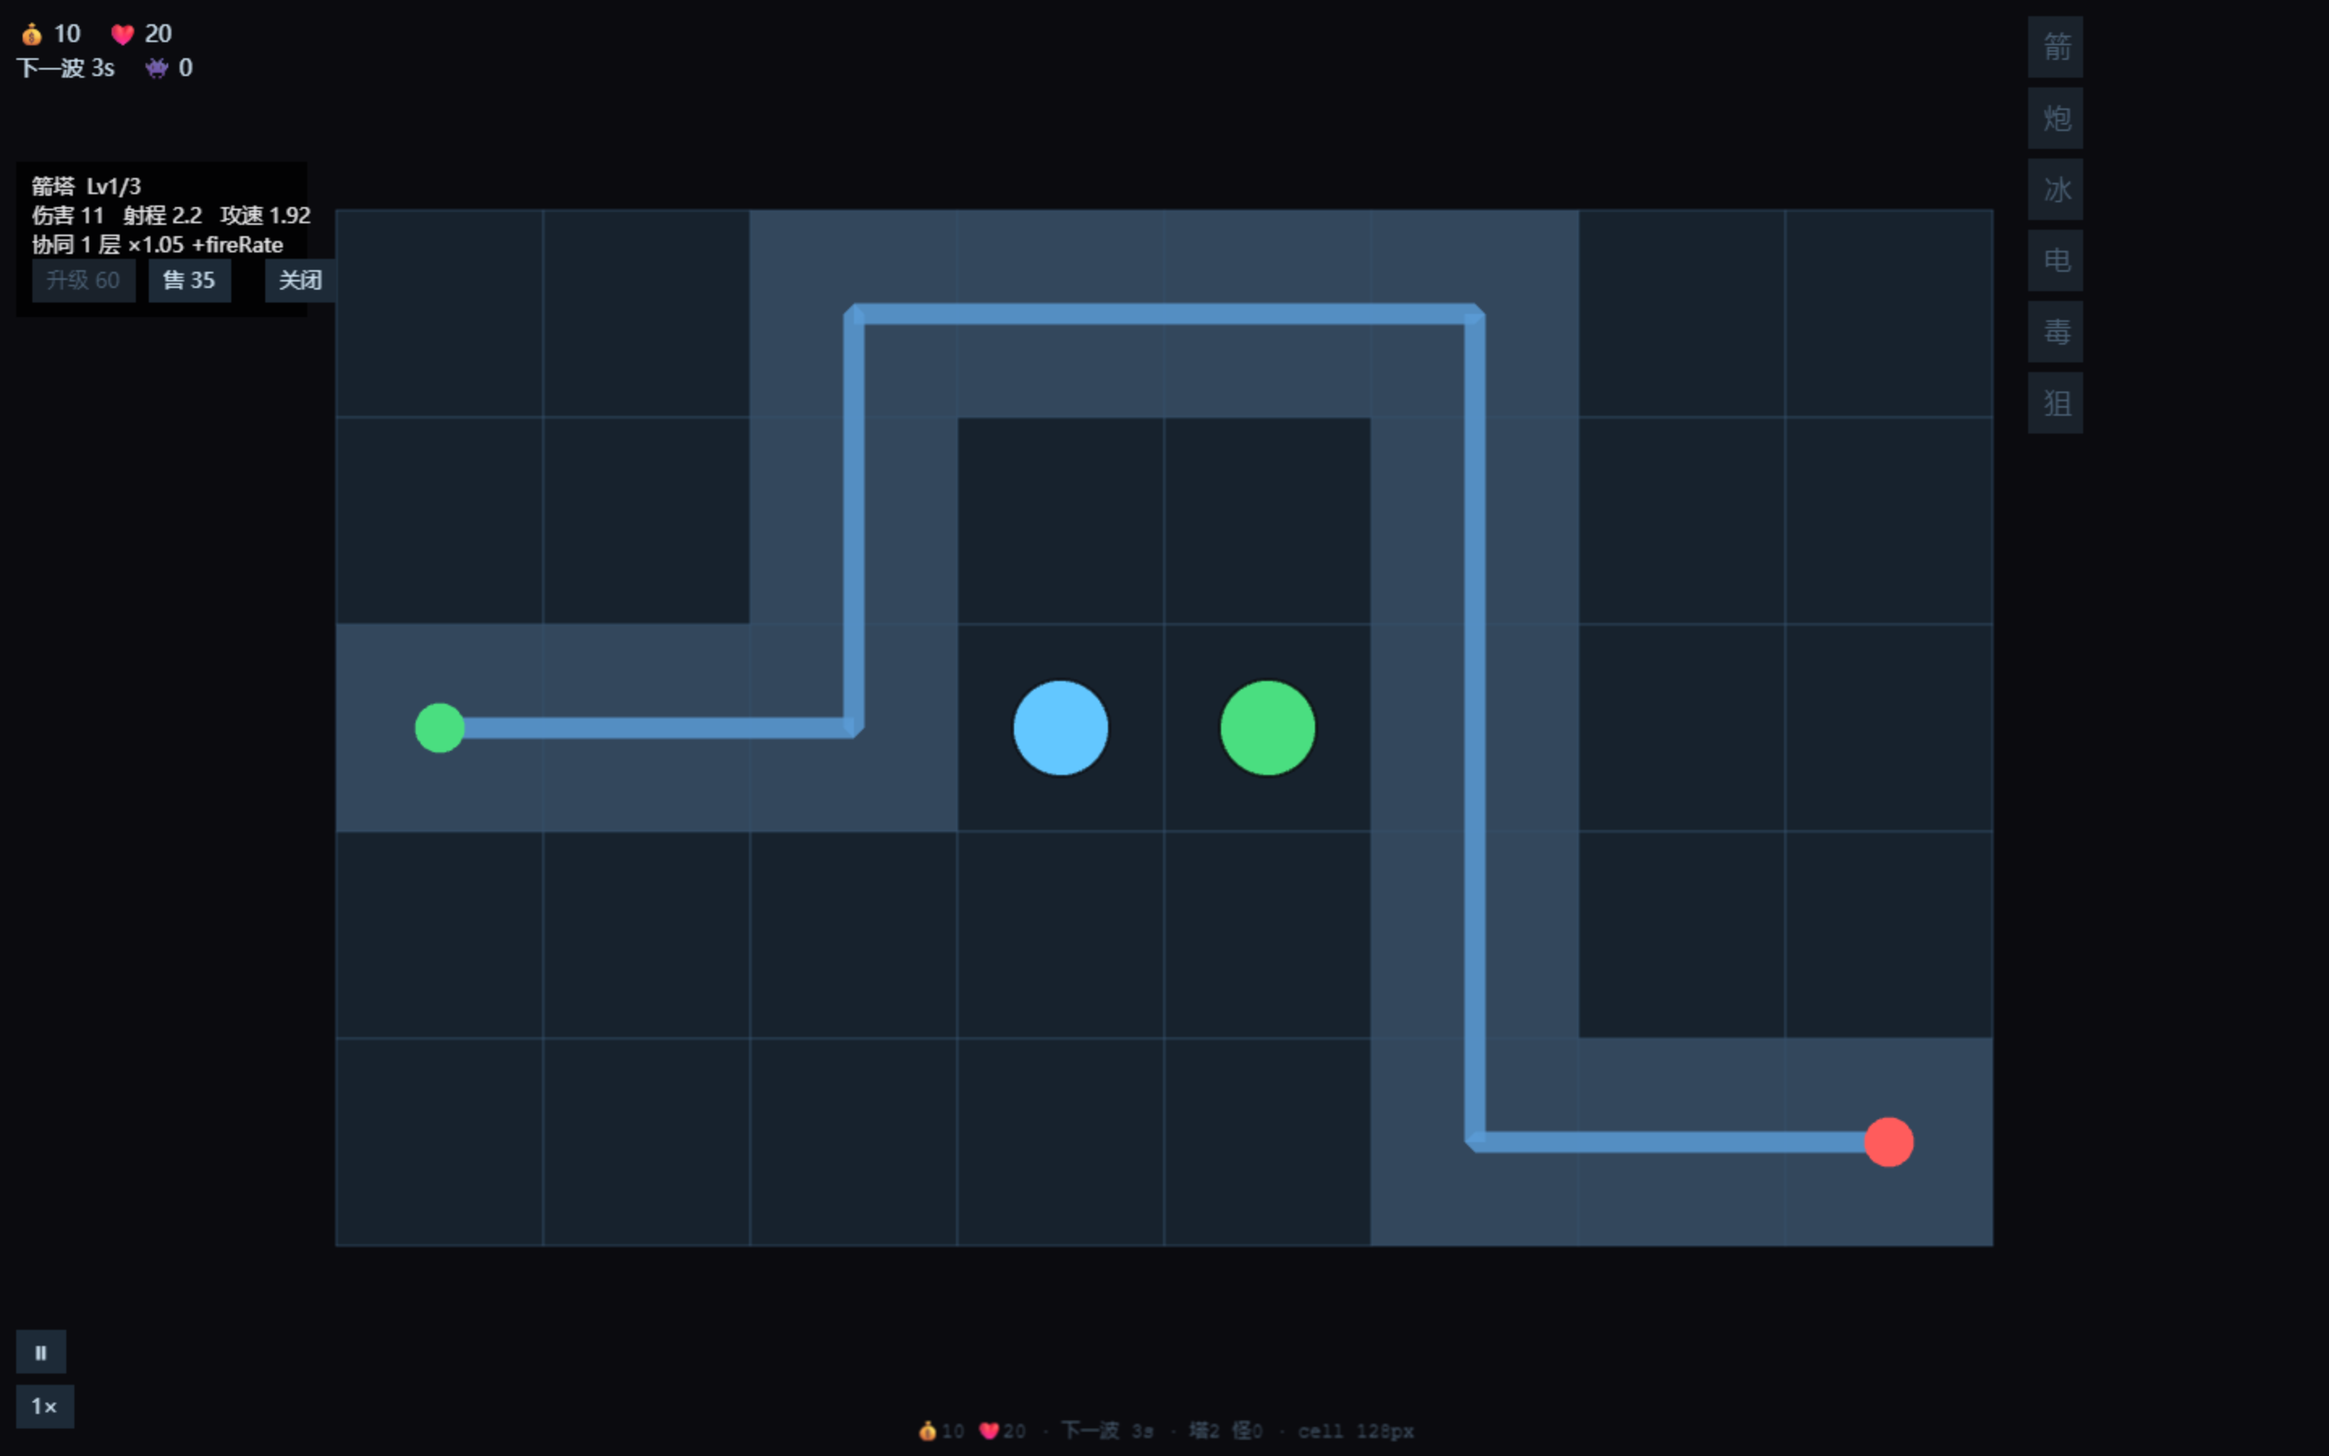
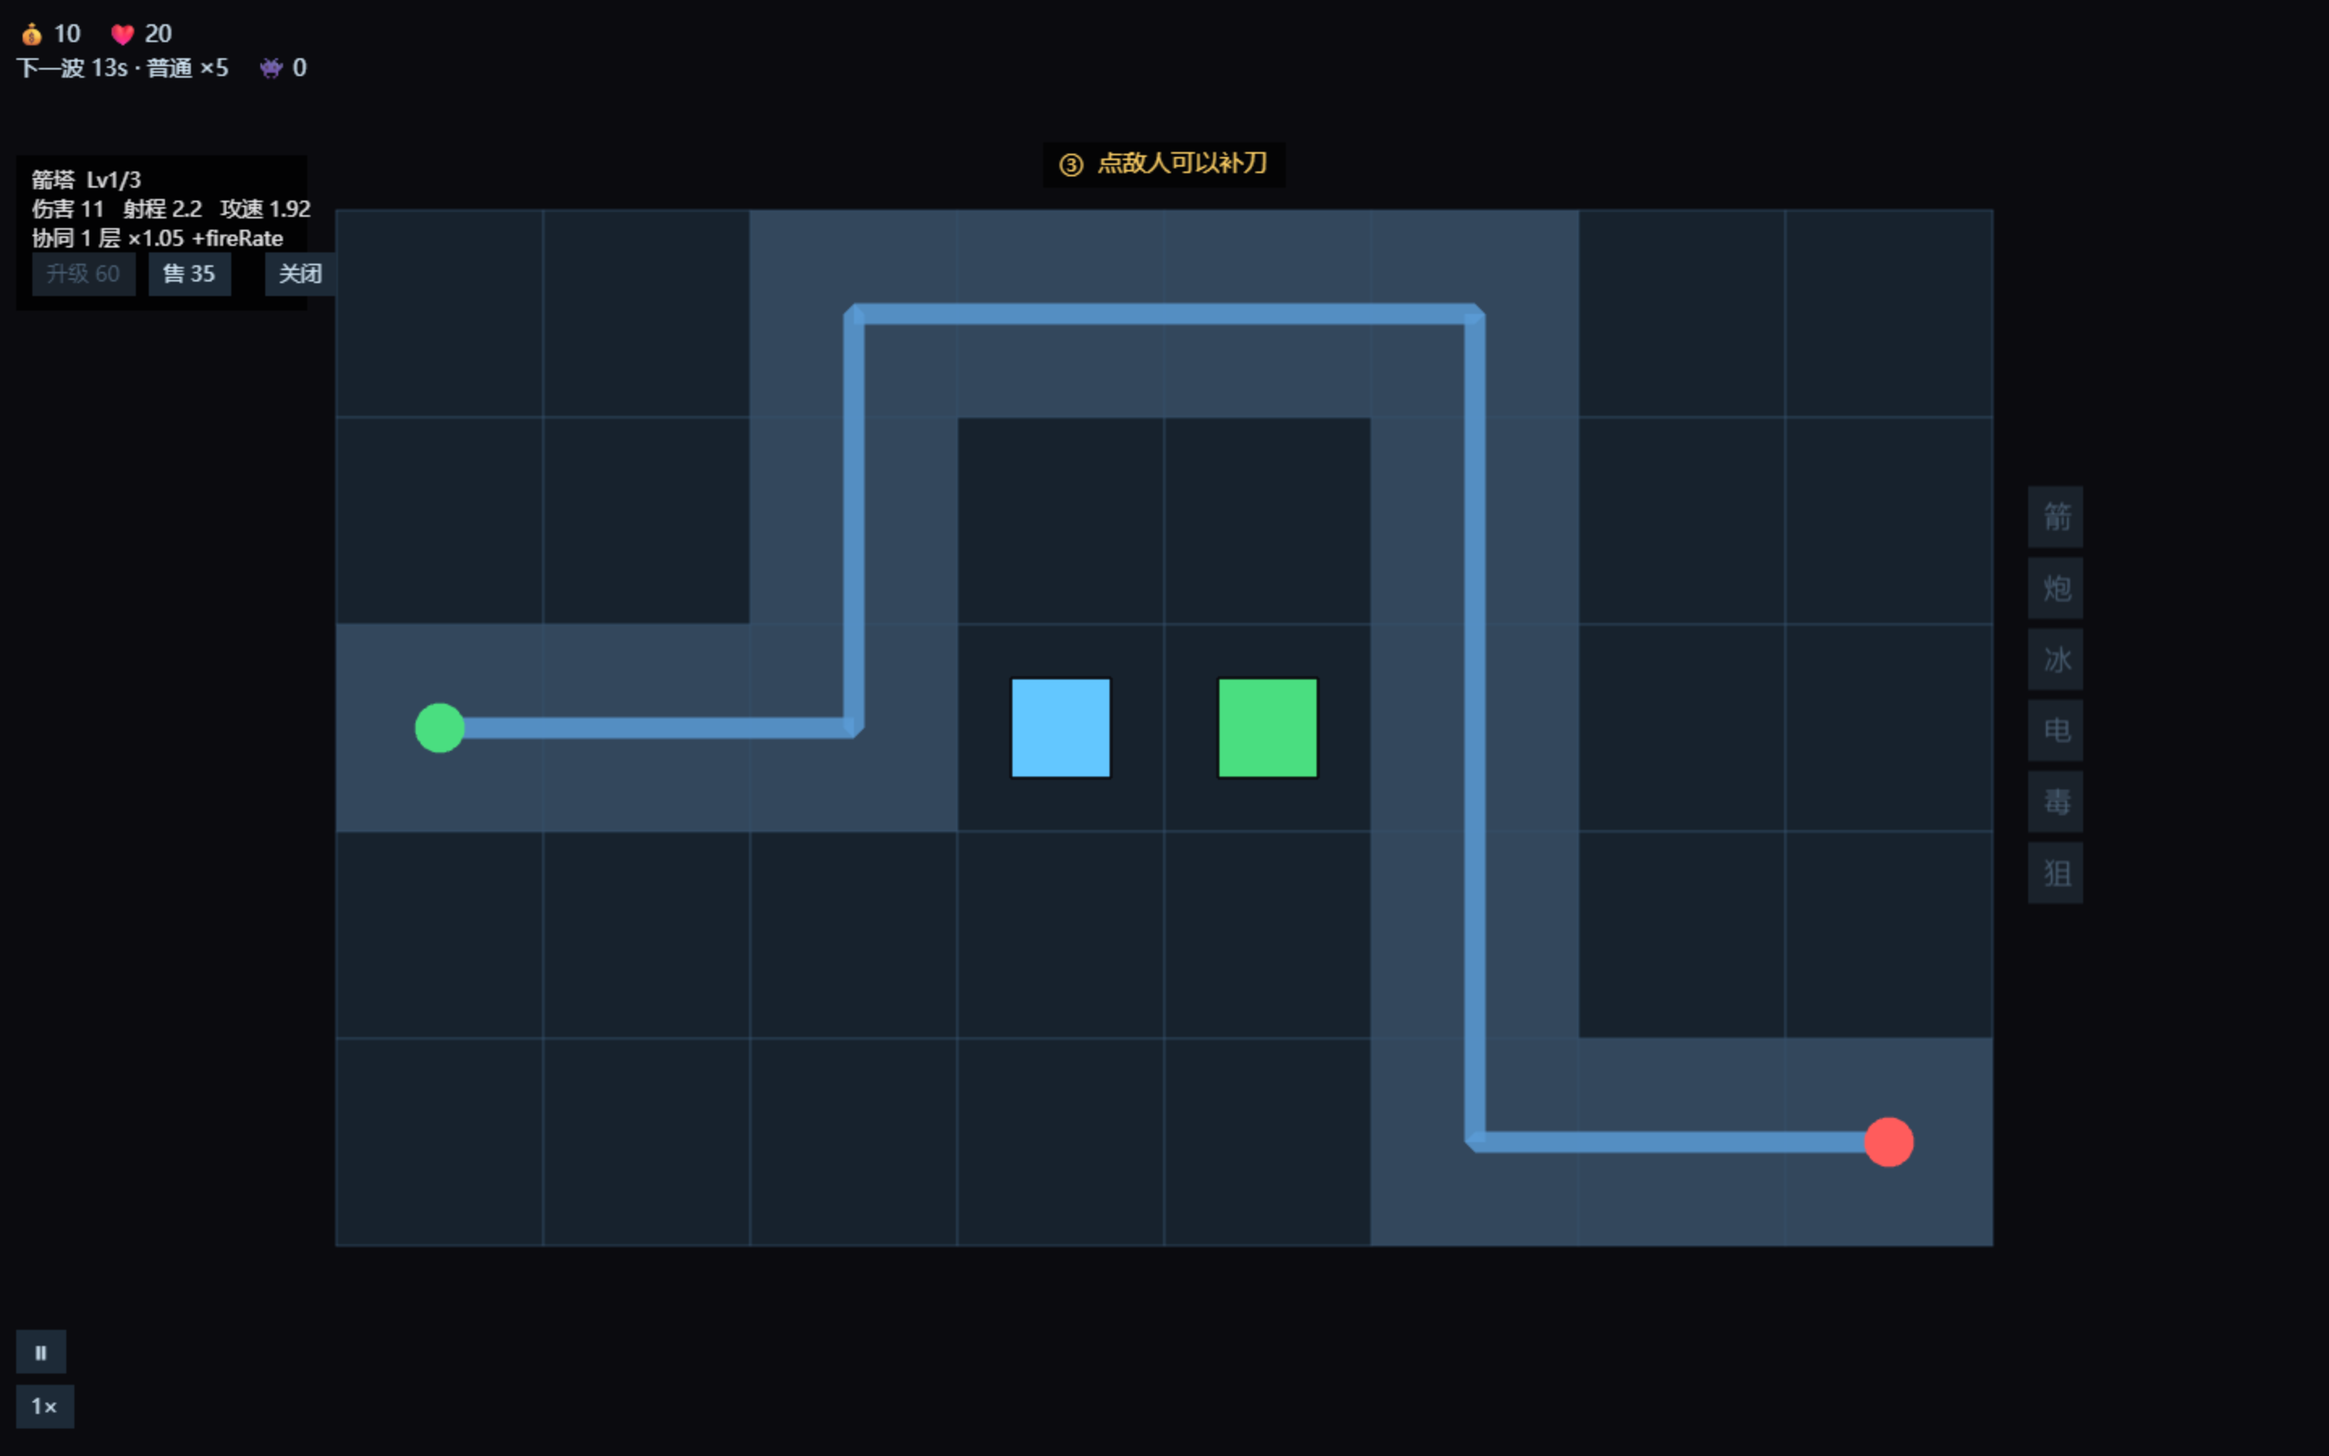
看图发现并修复 5 处视觉/布局缺陷（测试全绿但玩家会踩）
测试全绿 ≠ 玩家能用。这一轮靠看图找出 5 个功能断言抓不到的问题：

1. 【严重】信息面板压住建造栏
   竖屏面板写死 py = H - 200，底部压住了建造栏上排的「箭/炮/冰」三个按钮
   —— 玩家根本点不到。所有测试照样全绿，因为它们用程序坐标点按钮，
   程序算的是按钮理论位置，不知道有东西盖在上面。
   修：面板改放地图正下方，并与「建造栏上沿」取较小值（320 小屏也不重叠）。

2. 塔和敌人都是纯色圆点 → 分不清哪个是塔
   而且毒塔的紫色与坦克敌人的紫色直接撞车。
   修：塔改 Phaser Rectangle（方形 + 等级越大方块越大），敌人保持圆形。
       形状差异不需要图例就能分辨。

3. 【功能缺失】敌人没有血条
   spec 5.2 的「点击补刀」是对敌人造成 2% 最大 HP —— 没有血条玩家无从判断点哪只。
   修：每个敌人加「底 + 前景」两个矩形血条，随对象池复用不额外 new/destroy，
       按血量分级变色（绿/黄/红），只在 hp 变化时写入属性。

4. 底部挂着一条与 HUD 完全重复的调试提示条
   显示的金币/生命/波次与顶部一模一样，只多个 cell 尺寸。
   修：只在 ?debug=1 时显示（验收要读 cell 时仍可用）。

5. 引导提示飘在地图上方几百像素的空白处
   写死 scale.height * 0.12，与它要教的地图脱节。
   修：改成贴地图上沿 28px（看图才发现）。

另：横屏建造栏原从固定 y=10 往下排，1440x900 下挤在顶部 268px 内、下方 70% 全空。
    改成整个栏垂直居中。

新增 tests/visual-flow.mjs（41 项）：把上述 5 类问题变成可回归的断言 ——
几何重叠、形状混淆、信息缺失这三类，功能断言一个都抓不到。

回归：352 项断言全绿 + 6 视口 0 错误

diff --git a/src/scenes/HudScene.js b/src/scenes/HudScene.js
@@ -167,12 +167,18 @@ export default class HudScene extends Phaser.Scene {
       this.speedBtn.setPosition(10, H - 44)
 
       // 右浮层：建造栏竖排 + 取消
+      // ⚠ 整个栏**垂直居中**，不要从固定的 y=10 开始往下排 ——
+      //    那样在大屏上（1440×900）建造栏会挤在顶部 268px 内、下方 70% 全空。
+      //    实测数据：812×375 尚可，1440×900 明显头重脚轻。
       const btnH = Math.max(30, Math.min(44, (H - 60) / 7))
       const bx = W - side + 14
+      const blockH = 6 * btnH + 8 + this.cancelBtn.height
+      const startY = Math.max(8, (H - blockH) / 2)
+
       this.buildButtons.forEach((b, i) => {
-        b.text.setPosition(bx, 10 + i * btnH)
+        b.text.setPosition(bx, startY + i * btnH)
       })
-      this.cancelBtn.setPosition(bx, 10 + 6 * btnH + 8)
+      this.cancelBtn.setPosition(bx, startY + 6 * btnH + 8)
 
       this.layoutPanel(W, H, landscape, side)
     } else {
@@ -182,17 +188,19 @@ export default class HudScene extends Phaser.Scene {
       this.pauseBtn.setPosition(W - 74, 10)
       this.speedBtn.setPosition(W - 42, 10)
 
-      // 底部建造栏 3×2
+      // 底部建造栏 3×2 —— 从屏幕底边往上排（不是从固定 baseY 往下摆），
+      // 这样无论在 320×568 的小屏还是 430×932 的大屏，栏都稳稳贴住底边。
       const cols = 3
       const bw = Math.min(64, (W - 32) / cols)
       const bh = 40
-      const baseY = H - 128
+      const gap = 6
+      const baseY = H - 12 - (2 * bh + gap)          // 两行 + 行间距 + 底边距
       this.buildButtons.forEach((b, i) => {
         const cx = i % cols
         const cy = Math.floor(i / cols)
-        b.text.setPosition(12 + cx * (bw + 6), baseY + cy * (bh + 6))
+        b.text.setPosition(12 + cx * (bw + gap), baseY + cy * (bh + gap))
       })
-      this.cancelBtn.setPosition(12 + 2 * (bw + 6) + bw + 6, baseY + bh + 6)
+      this.cancelBtn.setPosition(12 + 2 * (bw + gap) + bw + gap, baseY + bh + gap)
 
       this.layoutPanel(W, H, landscape, 0)
     }
@@ -201,9 +209,38 @@ export default class HudScene extends Phaser.Scene {
   }
 
   layoutPanel(W, H, landscape, side) {
-    const pw = landscape ? side - 20 : Math.min(W - 24, 300)
-    const px = landscape ? 10 : (W - pw) / 2
-    const py = landscape ? 100 : H - 200
+    const gs = this.gs
+    const L = gs && gs.L
+
+    let pw, px, py
+
+    if (landscape) {
+      // 横屏：左侧浮层（地图水平居中，两侧本就是留白）
+      pw = Math.max(150, side - 20)
+      px = 10
+      py = 96
+    } else {
+      // 竖屏：面板放在**地图正下方**。
+      // 地图是 8×5（宽高比 1.6）而手机竖屏是 0.46 —— 地图下方**必然**留出大片空白，
+      // 面板正好填在那里，既利用空间又不与任何控件冲突。
+      //
+      // ⚠ 曾经写死 `py = H - 200`，结果面板底部压住了底部建造栏的**上排三个塔按钮**
+      //    （箭/炮/冰），玩家根本点不到它们。
+      //    所有自动化测试依然全绿 —— 因为它们用程序坐标点按钮，
+      //    程序算的是按钮的理论位置，根本不知道有东西盖在上面。**看图才发现。**
+      //
+      // ⚠ 但在 320×568 这类小屏上，地图下方只剩约 100px，放不下 96px 的面板 + 间距，
+      //    仍会压到建造栏（visual-flow 抓到过：面板 y347–443 vs 栏 y440–524）。
+      //    所以这里取「地图下方」与「建造栏上方」两者的较小值，保证永不重叠。
+      pw = Math.min(W - 24, 320)
+      px = (W - pw) / 2
+
+      const belowGrid = L ? (L.originY + L.gridH + 12) : (H * 0.5)
+      const barTop = H - 12 - (2 * 40 + 6) - 10       // 建造栏上沿再留 10px
+      const panelH = 96
+      py = Math.min(belowGrid, barTop - panelH)
+      py = Math.max(56, py)                            // 至少不撞顶部状态条
+    }
 
     this.panelBg.setPosition(px, py).setSize(pw, 96)
     this.panelText.setPosition(px + 10, py + 8)

diff --git a/src/entities/Enemy.js b/src/entities/Enemy.js
@@ -40,6 +40,23 @@ export class Enemy extends Phaser.GameObjects.Arc {
     this.freezeTimer = 0
     this.poisonDps = 0
     this.poisonTimer = 0
+
+    // ── 血条：底 + 前景，共两个矩形 ──
+    //
+    // 为什么需要它：spec §5.2 的「点击补刀」是"对点中的敌人造成 2% 最大 HP" ——
+    // **没有血条，玩家根本无法判断该点哪只**（这也是 spec 阶段① 遗漏的要素）。
+    //
+    // 实现要点：
+    //   · 与本体一样**随对象池复用**，不额外 new/destroy
+    //   · 前景 originX=0，缩短时从右边减少（符合直觉）
+    //   · 只在 hp 变化时改宽度与颜色，避免每帧 30×2 次无谓的属性写入
+    this.hpBg = scene.add.rectangle(-100, -100, 20, 3, 0x000000, 0.55)
+      .setDepth(4).setVisible(false)
+    this.hpFill = scene.add.rectangle(-100, -100, 20, 3, 0x4ade80, 1)
+      .setDepth(5).setVisible(false).setOrigin(0, 0.5)
+
+    this._lastHp = -1
+    this._barW = 20
   }
 
   /** 从对象池取出并初始化。cfg: { type, hp, speed, armor, bounty } */
@@ -62,6 +79,9 @@ export class Enemy extends Phaser.GameObjects.Arc {
 
     this.setFillStyle(COLORS[this.type] ?? COLORS.normal)
     this.setVisible(true)
+    this._lastHp = -1                 // 强制下一帧刷新血条
+    this.hpBg.setVisible(true)
+    this.hpFill.setVisible(true)
     return this
   }
 
@@ -133,7 +153,26 @@ export class Enemy extends Phaser.GameObjects.Arc {
 
     const px = cellToPixel(layout, p.x, p.y)
     this.setPosition(px.x, px.y)
-    this.setRadius(Math.max(3, layout.cell * 0.16))
+    const r = Math.max(3, layout.cell * 0.16)
+    this.setRadius(r)
+
+    // ── 血条跟随 ──
+    const barW = Math.max(14, layout.cell * 0.52)
+    const barH = Math.max(2, layout.cell * 0.055)
+    const by = px.y - r - barH - 2           // 贴在头顶上方
+    this._barW = barW
+
+    this.hpBg.setPosition(px.x, by).setSize(barW, barH)
+
+    // 只在 hp 真变了时才写入（每帧 30 只怪 × 2 个属性写入是白费）
+    if (this.hp !== this._lastHp) {
+      this._lastHp = this.hp
+      const ratio = this.maxHp > 0 ? Math.max(0, Math.min(1, this.hp / this.maxHp)) : 0
+      const color = ratio > 0.5 ? 0x4ade80 : (ratio > 0.25 ? 0xffd166 : 0xff5c5c)
+      this.hpFill.setSize(barW * ratio, barH).setFillStyle(color, 1)
+    }
+    // 位置每帧都要跟（敌人一直在动）
+    this.hpFill.setPosition(px.x - barW / 2, by)
   }
 
   /** 受伤；返回是否本次击杀 */
@@ -161,5 +200,7 @@ export class Enemy extends Phaser.GameObjects.Arc {
     this.poisonTimer = 0
     this.setVisible(false)
     this.setPosition(-100, -100)
+    this.hpBg.setVisible(false).setPosition(-100, -100)
+    this.hpFill.setVisible(false).setPosition(-100, -100)
   }
 }

diff --git a/src/scenes/GameScene.js b/src/scenes/GameScene.js
@@ -72,6 +72,11 @@ export default class GameScene extends Phaser.Scene {
     this.stats = { kills: 0, leaked: 0, built: 0, sold: 0, taps: 0, startedAt: Date.now() }
     this.finished = false
 
+    // URL 加 ?debug=1 才显示调试信息（底部提示条 + HUD 右上角面板）
+    this.debugOn = (() => {
+      try { return new URLSearchParams(location.search).has('debug') } catch { return false }
+    })()
+
     // ── 渲染层 ──
     this.g = this.add.graphics().setDepth(0)
     this.hint = this.add.text(0, 0, '', { fontSize: '12px', color: '#4a5f73', align: 'center' })
@@ -175,14 +180,26 @@ export default class GameScene extends Phaser.Scene {
   }
 
   updateHint() {
-    if (!this.hint || !this.L) return
+    if (!this.hint) return
+
+    // ⚠ 这条提示**只在 ?debug=1 时显示**。
+    //    它原本一直挂着，而显示的金币/生命/波次与顶部 HUD **完全重复**，
+    //    只在末尾多了个 cell 尺寸 —— 结果屏幕底部多了一条冗余信息条。
+    //    这是**看图**才发现的：所有测试全绿，因为没人断言"屏幕上不该有这条"。
+    if (!this.debugOn) {
+      this.hint.setVisible(false)
+      return
+    }
+    if (!this.L) return
+
     const s = this.getState()
     const next = this.wm.isDone ? '波次结束'
       : this.wm.phase === 'prep' ? `下一波 ${this.wm.countdown.toFixed(0)}s`
         : `第 ${s.wave}/${s.totalWaves} 波`
-    this.hint.setText(
-      `💰${s.gold} ❤${s.lives} · ${next} · 塔${s.towers} 怪${s.enemies} · cell ${this.L.cell.toFixed(0)}px`)
-    this.hint.setPosition(this.scale.width / 2, this.scale.height - 16)
+    this.hint.setVisible(true).setText(
+      `cell ${this.L.cell.toFixed(1)}px · ${this.L.landscape ? '横屏' : '竖屏'} · ${next} · ` +
+      `塔${s.towers} 怪${s.enemies} · 池 ${s.pools.enemy}/${s.pools.tower}/${s.pools.proj}`)
+    this.hint.setPosition(this.scale.width / 2, this.scale.height - 10)
   }
 
   /** 供 HUD 与无头测试读取 */
@@ -597,8 +614,11 @@ export default class GameScene extends Phaser.Scene {
 
     const cur = this.tutorial[0]
     if (cur) {
+      // 贴着地图**上沿**显示 —— 曾经写死 `height * 0.12`，
+      // 结果提示飘在地图上方几百像素的空白里，与它要教的地图完全脱节（看图才发现）
+      const y = this.L ? Math.max(56, this.L.originY - 28) : this.scale.height * 0.1
       this.tutorialText.setText(cur.text).setVisible(true)
-        .setPosition(this.scale.width / 2, this.scale.height * 0.12)
+        .setPosition(this.scale.width / 2, y)
     } else {
       this.tutorialText.setVisible(false)
     }

diff --git a/src/entities/Tower.js b/src/entities/Tower.js
@@ -5,17 +5,22 @@
 //
 // 协同（spec §5.1）由 GameScene 在建造 / 升级 / 卖出后重算，并**缓存**在
 // `synergy` 上 —— 不在每帧遍历邻域。
+//
+// 视觉：塔是**正方形**，敌人是**圆形**（见 Enemy.js）。
+//   ⚠ 起初两者都是纯色圆，结果**玩家分不清哪个是塔哪个是怪**，
+//   而且毒塔的紫色与坦克敌人的紫色直接撞车。
+//   形状差异不需要图例就能分辨，是最省成本的修法（看图才发现的问题）。
 
 import { towerDef, levelStats } from '../data/towers.js'
 import { pickTarget, STRATEGY } from '../systems/Targeting.js'
 import { cellToPixel } from '../systems/Layout.js'
 
-export class Tower extends Phaser.GameObjects.Arc {
+export class Tower extends Phaser.GameObjects.Rectangle {
   constructor(scene) {
-    super(scene, -100, -100, 12, 0, 360, false, 0x4ade80)
+    super(scene, -100, -100, 12, 12, 0x4ade80)
     scene.add.existing(this)
     this.setVisible(false)
-    this.setStrokeStyle(2, 0x0b0b0f, 0.8)
+    this.setStrokeStyle(2, 0x0b0b0f, 0.9)
     this.synergy = { stacks: 0, damageMult: 1, specials: [] }
   }
 
@@ -89,7 +94,9 @@ export class Tower extends Phaser.GameObjects.Arc {
   syncPixel(layout) {
     const px = cellToPixel(layout, this.cx, this.cy)
     this.setPosition(px.x, px.y)
-    this.setRadius(Math.max(5, layout.cell * (0.20 + this.level * 0.035)))
+    // Rectangle 用边长（不是半径）。等级越高方块越大 —— 与原先的圆直径相当。
+    const side = Math.max(8, layout.cell * (0.42 + this.level * 0.065))
+    this.setSize(side, side)
     this.setDepth(2)
   }
 
